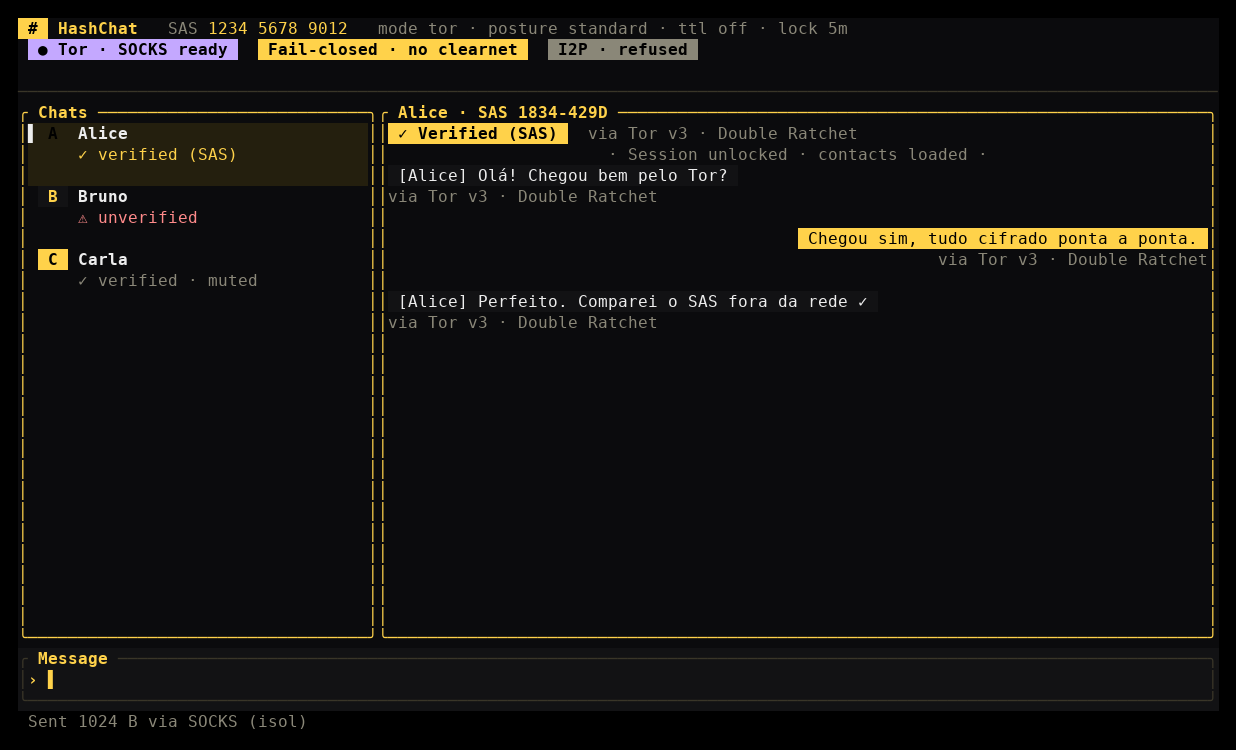
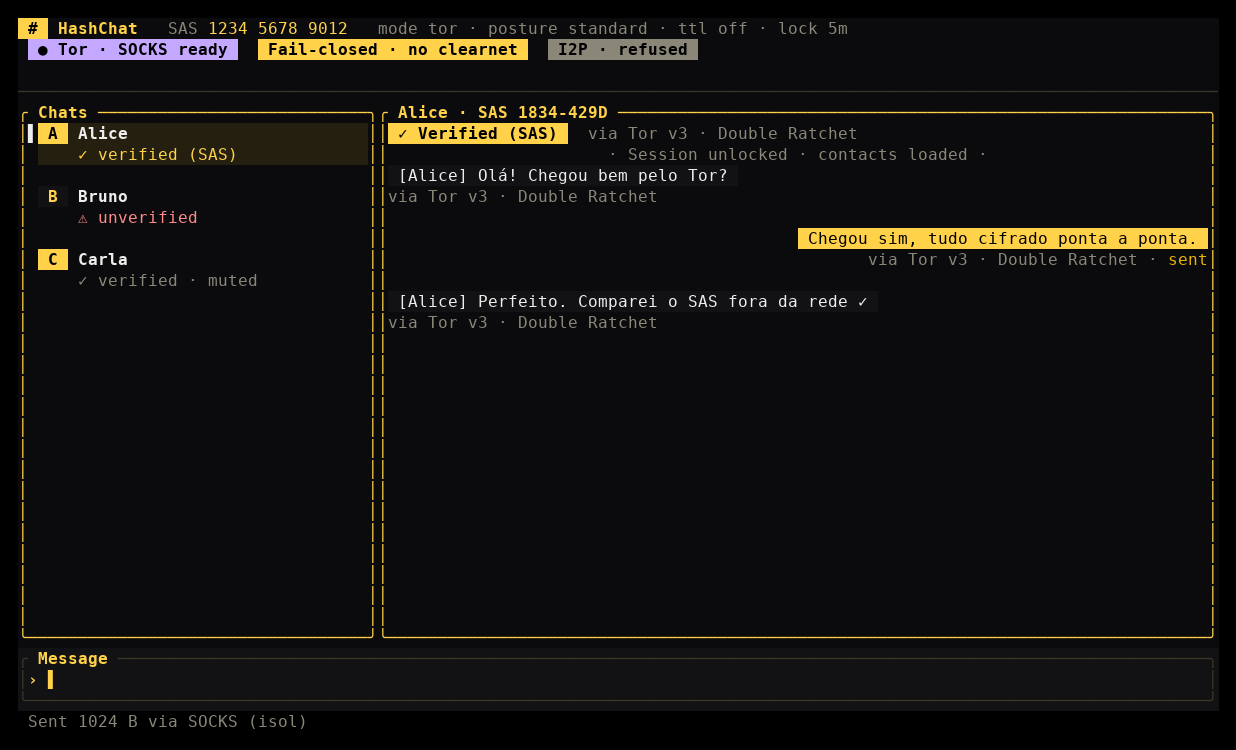
docs: new real TUI screenshots (unlock, SAS grid, contact card, destructive modals, delivery footer)

Changed region(s): [[0.0, 0.1533, 0.3074, 0.2453], [0.7071, 0.3373, 0.9838, 0.368]]

diff --git a/README.md b/README.md
@@ -38,6 +38,14 @@ The real `hashchat-tui` with the new design theme (black and gold, Tor/I2P statu
 | <img src="docs/screenshots/real/hashchat-tui-chat.png" alt="hashchat-tui: verified chat over Tor"/> | <img src="docs/screenshots/real/hashchat-tui-unverified-tor-down.png" alt="hashchat-tui: Tor down, fail-closed"/> |
 |---|---|
 | Verified contact, Tor ready | Tor down: fail-closed turns red, unverified banner |
+| <img src="docs/screenshots/real/hashchat-tui-chat-delivery.png" alt="hashchat-tui: bubble footers with delivery state"/> | <img src="docs/screenshots/real/hashchat-tui-unlock.png" alt="hashchat-tui: unlock"/> |
+| Bubble footer: real transport + sent / held / queued | Unlock card (Argon2id at rest, Tor required) |
+| <img src="docs/screenshots/real/hashchat-tui-sas-grid.png" alt="hashchat-tui: SAS grid"/> | <img src="docs/screenshots/real/hashchat-tui-contact-card.png" alt="hashchat-tui: contact link card"/> |
+| `:sas-grid` — compare 8 characters out of band, then `:verify` or `:block` | `:contact-card` — signed Contact Link v1 and the checks a peer runs (example link) |
+| <img src="docs/screenshots/real/hashchat-tui-wipe.png" alt="hashchat-tui: wipe confirm"/> | <img src="docs/screenshots/real/hashchat-tui-delete-contact.png" alt="hashchat-tui: delete contact confirm"/> |
+| `:wipe` — red, needs `:wipe-confirm` | `:delete-contact` — red, needs `:delete-contact-confirm` |
+| <img src="docs/screenshots/real/hashchat-tui-duress.png" alt="hashchat-tui: duress passphrase"/> | |
+| `:duress set` — masked entry | |
 
 ### Design concept (in progress)
 **These are design concepts, not the current app.** They show where the UI is going; every feature shown exists in the Rust core. See [docs/DESIGN.md](docs/DESIGN.md).
